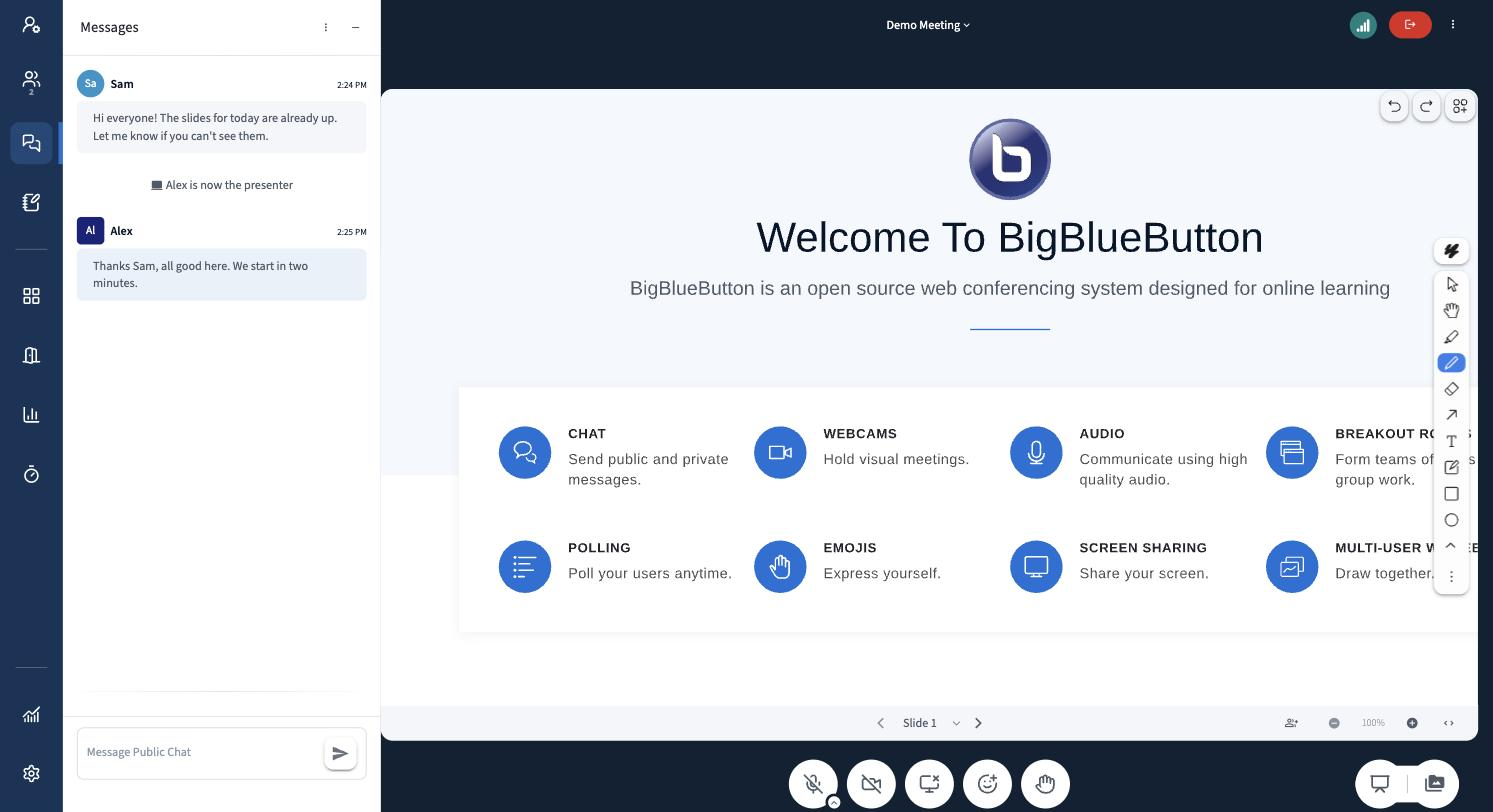
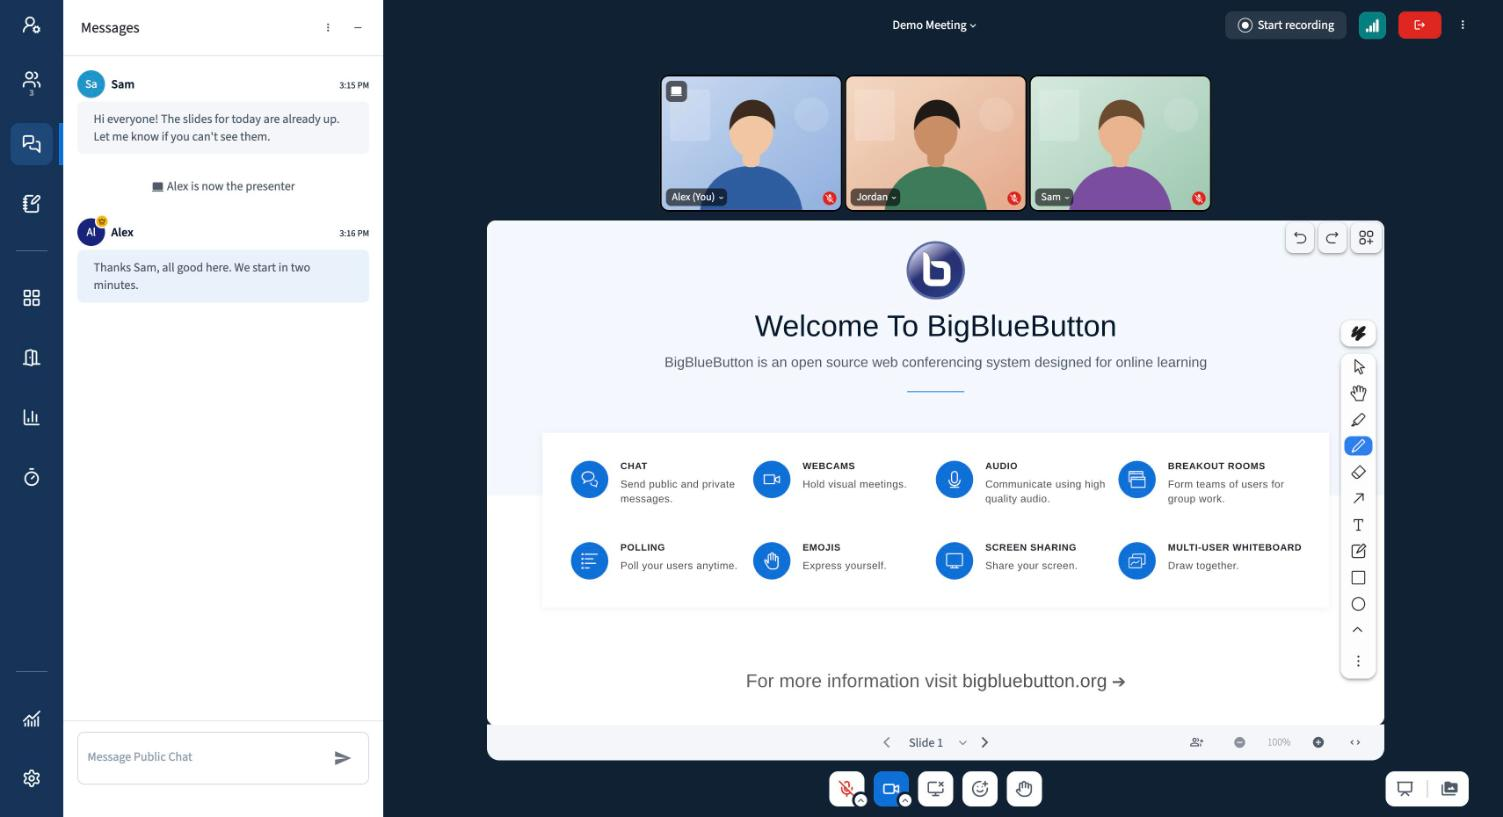
Cameras, moderator crown, accessibility and polish
- Cameras fill their tile, with readable name tags and presenter badge
- Round avatars for everyone, moderators marked by a small gold crown
- Red icon for muted microphone and camera off, soft hover on buttons
- Chat input highlights the whole box on focus, send button icon only
- Presentation, notifications and the user list actions get the same
  corners as the rest
- Keyboard focus ring, thin panel scrollbars, reduced motion support
- New screenshot with illustrated cameras

Claude-Session: https://claude.ai/code/session_01J2pxfn4YM5vNYQz6zxDTuv

diff --git a/src/theme.css b/src/theme.css
@@ -13,6 +13,8 @@
   --theme-nav: #133459;
   --theme-nav-active: #1E4877;
   --theme-primary: #0F70D7;
+  --theme-danger: #D93025;
+  --theme-moderator: #F5B700;
   --theme-line: #E3E4E8;
   --theme-text: #1f2329;
   /* Icon bar width. The client computes 60px + 2% of the window in JS */
@@ -191,8 +193,15 @@ body,
   box-shadow: none !important;
 }
 
+/* Focus highlights the whole input box, not just the textarea inside it */
 [data-test="sidebarContentMain"] form > div > div:focus-within {
   border-color: var(--theme-primary) !important;
+  box-shadow: 0 0 0 3px rgba(15, 112, 215, .18) !important;
+}
+
+#message-input:focus,
+#message-input:focus-visible {
+  outline: none !important;
 }
 
 #message-input {
@@ -202,6 +211,7 @@ body,
 /* Send: icon only, no filled square */
 [data-test="sendMessageButton"] {
   background: transparent !important;
+  box-shadow: none !important;
 }
 
 [data-test="sendMessageButton"] svg,
@@ -212,6 +222,38 @@ body,
 [data-test="sendMessageButton"]:hover svg,
 [data-test="sendMessageButton"]:hover svg * {
   fill: var(--theme-primary) !important;
+}
+
+/* Thin, quiet scrollbars in the panels */
+[data-test="sidebarContentMain"],
+[data-test="sidebarContentMain"] * {
+  scrollbar-width: thin;
+  scrollbar-color: #C5CBD3 transparent;
+}
+
+/*
+ * Avatars: the client tells moderators apart by a square avatar. Here every
+ * avatar is round and moderators get a small gold crown on the top right
+ * corner instead, clear of the initials. The badge sits on the avatar's empty
+ * first layer, because the avatar's own ::before and ::after are used by the
+ * client (presenter and talking indicators).
+ */
+[data-test="moderatorAvatar"] {
+  border-radius: 50% !important;
+}
+
+[data-test="moderatorAvatar"] > div:first-child::after {
+  content: "";
+  position: absolute;
+  top: -5px;
+  right: -5px;
+  z-index: 2;
+  width: 13px;
+  height: 13px;
+  border-radius: 50%;
+  background: var(--theme-moderator) url(./icons/crown-badge.svg) center / 8px no-repeat;
+  box-shadow: 0 0 0 1.5px #fff;
+  pointer-events: none;
 }
 
 /* Users: search box with some room */
@@ -256,6 +298,49 @@ body,
   color: #fff !important;
 }
 
+/* Soft hover, like the icon bar */
+#ActionsBar button > span[color]:first-child,
+[data-test="navigationSidebarContainer"] div[role="button"] {
+  transition: background-color .12s ease, color .12s ease;
+}
+
+#ActionsBar button:hover > span[color="default"]:first-child {
+  background: #E6EBF2 !important;
+}
+
+/* Muted microphone and camera off in red, so "I am muted" reads at a glance */
+:is([data-test="unmuteMicButton"], [data-test="joinVideo"]) > span[color="default"] i {
+  color: var(--theme-danger) !important;
+}
+
+/* ---------- Presentation ---------- */
+
+[data-test="presentationContainer"] > div:nth-child(2),
+#whiteboard-element > div:first-child {
+  border-radius: 10px !important;
+}
+
+/* ---------- Cameras ---------- */
+
+/* Fill the tile like Meet does, instead of black bars above and below the video */
+[data-test="webcamItem"] video {
+  object-fit: cover !important;
+}
+
+/* Presenter badge on the top left of the presenter's camera */
+div:has(> [data-test="presenterVideoButton"]) {
+  border-radius: 6px !important;
+  background: rgba(0, 0, 0, .6) !important;
+}
+
+/* Name tag readable over any video */
+[data-test="dropdownWebcamButton"] {
+  border-radius: 6px !important;
+  background: rgba(0, 0, 0, .6) !important;
+  font-size: 12px !important;
+  line-height: 20px !important;
+}
+
 /* ---------- Every other button and field: 8px corners ----------
  * The client's Button component uses 14px (text buttons), 42px (capsules like
  * "Start recording") or 50% (icon buttons). The action bar and icon bar rules
@@ -269,8 +354,39 @@ textarea,
 input:not([type="checkbox"]):not([type="radio"]):not([type="range"]),
 [data-test="timeIndicator"],
 [data-test="remove-reaction"],
-div:has(> [data-test="increaseRooms"]) {
+div:has(> [data-test="increaseRooms"]),
+:is([data-test="userListItem"], [data-test="userListItemCurrent"]) > div:has(> div[data-test]) {
   border-radius: 8px !important;
+}
+
+/* ---------- Notifications ---------- */
+
+.Toastify__toast {
+  border-radius: 8px !important;
+  box-shadow: 0 4px 16px rgba(16, 33, 51, .16) !important;
+}
+
+/* ---------- Accessibility ---------- */
+
+/*
+ * Visible focus ring, only for keyboard navigation. Text fields are left out:
+ * they match :focus-visible on a mouse click too, and the chat box already
+ * highlights its whole container.
+ */
+:is(button, [role="button"], a, select, [role="tab"], [role="menuitem"]):focus-visible {
+  outline: 2px solid var(--theme-primary) !important;
+  outline-offset: 2px !important;
+}
+
+/* Respect the system "reduce motion" setting */
+@media (prefers-reduced-motion: reduce) {
+  *,
+  *::before,
+  *::after {
+    transition-duration: .01ms !important;
+    animation-duration: .01ms !important;
+    animation-iteration-count: 1 !important;
+  }
 }
 
 /* ---------- Icons (Lucide, ISC, see icons/LICENSE) ----------

diff --git a/README.md b/README.md
@@ -4,6 +4,8 @@ A theme plugin for the BigBlueButton 4.0 HTML5 client. It is pure CSS shipped as
 
 ![Flat theme on BigBlueButton 4.0](docs/screenshot.jpg)
 
+_Camera images in the screenshot are illustrations._
+
 ## What it changes
 
 **Icon bar (left)**
@@ -19,11 +21,29 @@ A theme plugin for the BigBlueButton 4.0 HTML5 client. It is pure CSS shipped as
 
 **Action bar**
 - 40px buttons (the size Meet uses) with 10px corners and 20px icons, the same shape as the icon bar buttons. Active buttons (microphone on, hand raised...) are blue with a white icon.
+- Muted microphone and camera off show a red icon, so "I am muted" reads at a glance.
+- Soft hover on the action and icon bar buttons.
 - The presentation and media area buttons stay together in a single capsule, with the same height and corners.
+
+**Cameras**
+- Videos fill their tile (`object-fit: cover`, like Meet) instead of showing black bars above and below.
+- The name tag over each video gets a darker background and slightly larger text, and the presenter badge gets the same treatment.
+
+**Avatars**
+- The client tells moderators apart by a square avatar. Here every avatar is round and moderators get a small gold crown on the top right corner instead, clear of the initials.
+
+**Presentation and notifications**
+- The presentation area uses 10px corners, like the cameras and the action bar.
+- Notifications use 8px corners and a soft shadow.
 
 **Other buttons and fields**
 - Every other button uses 8px corners instead of circles and capsules: top bar (start recording, connection status, leave, options), panels (mute all, polls, timer, breakout rooms, profile), slide navigation and zoom, undo/redo, menus and modals.
 - Text fields and selects get the same 8px corners. The small audio device arrow on the microphone stays round.
+- Panels get thin, quiet scrollbars.
+
+**Accessibility**
+- A visible focus ring for keyboard navigation (`:focus-visible`), the same everywhere.
+- Animations and transitions are turned off when the system asks for reduced motion.
 
 **Icons**
 - The icon bar and the action bar use [Lucide](https://lucide.dev) icons instead of the `bbb-icons` font: microphone, camera, screen share, reactions, raise hand, profile settings, users, chat, notes, apps, breakout rooms, polls, timer, learning dashboard and settings.
@@ -67,7 +87,9 @@ Colors and the icon bar width are CSS variables at the top of [`src/theme.css`](
 | `--theme-background` | `#102133` | Background behind the presentation, top bar and action bar |
 | `--theme-nav` | `#133459` | Icon bar |
 | `--theme-nav-active` | `#1E4877` | Active item in the icon bar |
-| `--theme-primary` | `#0F70D7` | Active marker, active buttons, focused input |
+| `--theme-primary` | `#0F70D7` | Active marker, active buttons, focus ring |
+| `--theme-danger` | `#D93025` | Muted microphone and camera off |
+| `--theme-moderator` | `#F5B700` | Moderator crown badge |
 | `--theme-nav-width` | `72px` | Icon bar width |
 
 Change them and rebuild.
@@ -84,6 +106,8 @@ Some details worth knowing if you change the CSS:
 - Icons replace the `::before` glyph of the `icon-bbb-*` classes with an SVG used as a mask, so they still follow the text color.
 
 Tested on BigBlueButton 4.0.0 with plugin SDK `1.0.0-beta`.
+
+The theme targets the client's light mode. On the test server, turning on the client's own dark mode (Settings, Application) left the whole screen blank even with this plugin removed, so dark mode was not styled.
 
 ## License
 
